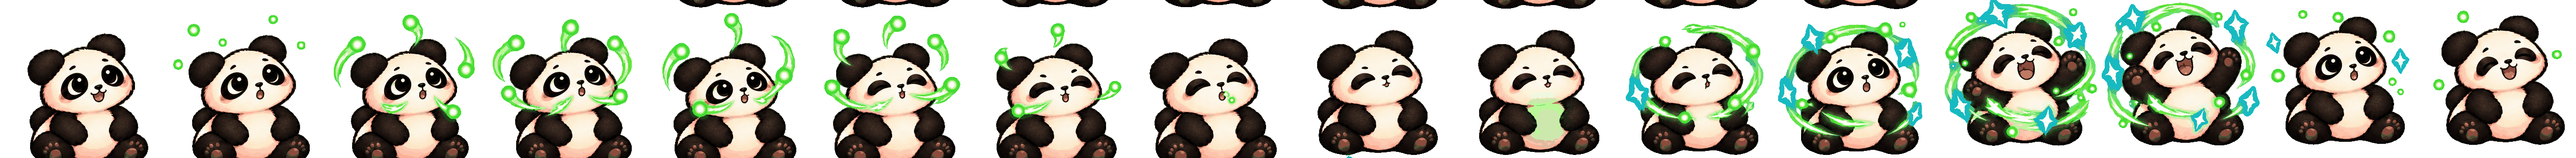
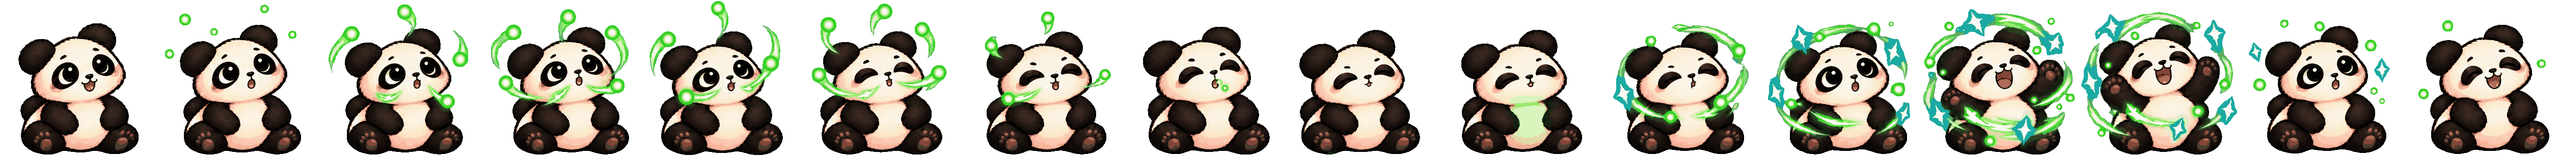
Repack the Panda celebration off the sheet's own gutters
The stray pixels at the top of the last frames were the previous frame's
paws. The 4x4 grid is not on a grid: the pet is taller than its nominal
cell and its feet cross into the row below, so cutting at even sixteenths
carried the bottom of one frame into the top of the next. Under the
effect for most of the clip it passed unnoticed; in the settled frames at
the end there is nothing left to hide it.

Twelve of the sixteen frames had it, not the last few - the last few are
just where it was visible.

The cut now follows the sheet's own empty rows - 29-326, 338-641, 667-930
and 932-1223, no two the same height - and each cell is centred and stood
on a common floor. Every cell has the pet's feet on its own bottom edge,
so bottom-aligning them is what lines the pets up. Nothing is anchored
per frame, which would have cancelled the lean the pet does at the bloom:
that is animation, not drift.

Being cut properly also improved the fit against the idle it cuts away
from, from 4% out on both axes to 1.4%.

ART_VERSION goes to 21 because the sheet's contents changed under a name
that is already cached.

Verified: no frame now carries content at the top that is not its own
effect, the schedule still runs all sixteen frames to 2,250ms, and a real
level-up plays it and settles back to the idle.

Claude-Session: https://claude.ai/code/session_01YRzrKPfiP3SQKKej9Vjk7N

diff --git a/index.html b/index.html
@@ -1970,9 +1970,19 @@ const LEVEL_UP_ART = {
 
      13 and 14 are two drawings of the same vortex rather than one drawing
      held, so the aura is carried by alternating them, the way the Bamboo Cub's
-     bloom is. Delivered as a 4x4 grid and repacked into a strip cell by cell
-     with no re-anchoring: the grid was already aligned, and pinning each frame
-     to its own content would have moved the pet about underneath the effect.
+     bloom is.
+
+     It arrived as a 4x4 grid, and the grid is not on a grid: the pet is taller
+     than its nominal cell and its feet cross into the row below, so cutting at
+     even sixteenths put the previous frame's paws at the top of the next one.
+     Invisible under the effect for most of the clip and obvious in the settled
+     frames at the end, which is where it was spotted. The cut follows the
+     sheet's own empty gutters instead - rows 29-326, 338-641, 667-930 and
+     932-1223, no two the same height - and each cell is then centred and stood
+     on a common floor. Every cell has the pet's feet on its own bottom edge,
+     so bottom-aligning them is what lines the pets up. Nothing is anchored per
+     frame: that would cancel the lean the pet does at the bloom, which is
+     animation rather than drift.
 
      `burst` is 12 and not 13, which is where the vortex actually is. The
      count is of the beats that come *before* the flash, so naming the vortex
@@ -1983,12 +1993,12 @@ const LEVEL_UP_ART = {
 
      It is drawn slimmer here than on its idle sheet - a bigger head on a
      narrower body - so no single scale matches both the width and the height
-     of the idle it cuts away from. This one splits the difference, 4% wide and
-     4% short, with the ground line matched exactly, which is the axis the eye
-     actually catches. */
+     of the idle it cuts away from. This one splits the difference, 1.4% wide
+     and 1.4% short, with the ground line matched exactly, which is the axis
+     the eye catches. */
   "verdant:2": levelUpClip({ src:"art/levelup-panda.png", frames:16,
     order:[0,1,2,3,4,5,6,7,8,9,10,11, 12,13,12,13, 14,15],
-    gather:2, burst:12, aspect:1.013, scale:1.222, dx:-1.56, dy:-30.57 })
+    gather:2, burst:12, aspect:1.0195, scale:1.186, dx:5.18, dy:-27.08 })
 };
 /* Keyed by form, and by level where a form celebrates differently at different
    levels - which so far is the egg, whose two crack clips belong to levels 3
@@ -3309,8 +3319,8 @@ function spriteConfig(species, stage){
 /* Stamped into Settings so a device can say which build it is running. GitHub
    Pages caches index.html and offers no way to set headers on it, so a missing
    feature and a stale page look the same without this. */
-const BUILD_ID = "2026-09-21 ede7562";
-const ART_VERSION = "20";
+const BUILD_ID = "2026-09-21 749f674";
+const ART_VERSION = "21";
 function assetURL(src){
   return /^art\//.test(src) ? src + "?v=" + ART_VERSION : src;
 }

diff --git a/README.md b/README.md
@@ -480,12 +480,20 @@ the clip's whole point on its shortest hold, 41ms. At 12 the two flash beats
 land on the vortex and it holds for 720ms instead. The Bamboo Cub is numbered
 the same way for the same reason.
 
-It arrived as a 4×4 grid and was repacked into a strip cell by cell with no
-re-anchoring: the grid was already aligned, and pinning each frame to its own
-content would have moved the pet about underneath the effect. The panda is
+It arrived as a 4×4 grid, and the grid is not on a grid. The pet is taller than
+its nominal cell and its feet cross into the row below, so cutting at even
+sixteenths put the previous frame's paws at the top of the next one — invisible
+under the effect for most of the clip, and obvious in the settled frames at the
+end. The cut follows the sheet's own empty gutters instead (rows 29–326,
+338–641, 667–930 and 932–1223, no two the same height), and each cell is then
+centred and stood on a common floor. Every cell has the pet's feet on its own
+bottom edge, so bottom-aligning them is what lines the pets up; nothing is
+anchored per frame, which would cancel the lean the pet does at the bloom.
+
+The panda is
 drawn slimmer here than on its idle sheet — a bigger head on a narrower body —
 so no single scale matches both the width and the height of the idle it cuts
-away from. The entry splits the difference, 4% wide and 4% short, with the
+away from. The entry splits the difference, 1.4% wide and 1.4% short, with the
 ground line matched exactly, which is the axis the eye actually catches.
 
 The Zephyrite's celebration works the same way as the Sparky's and needed
